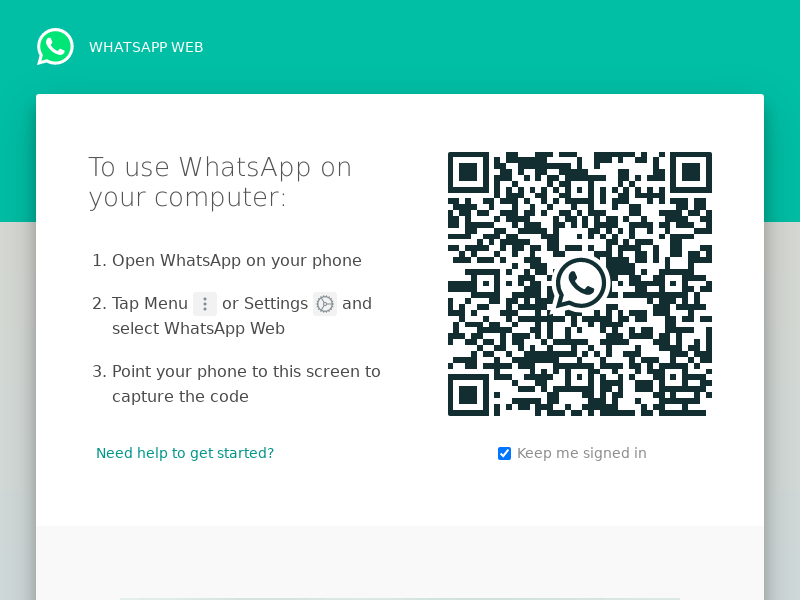
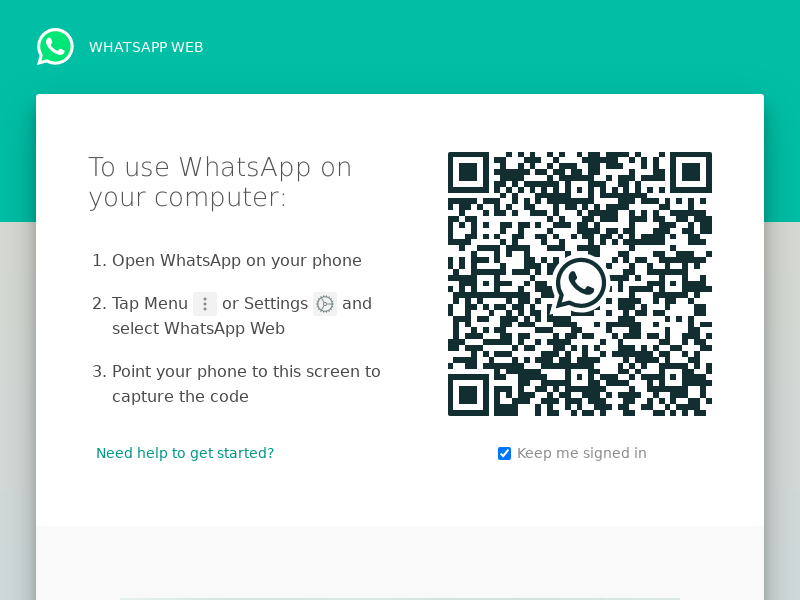
🦂👖 Checkpoint ./view/index.html:23794624/65

Changed region(s): [[0.5625, 0.24, 0.9062, 0.69]]

diff --git a/view/index.html b/view/index.html
@@ -100,7 +100,7 @@
     const socket = io();
               socket.on("qr", data => {
                 console.log(data)
-                $('body > div.co > div > div > div.kanan > img').attr("src", "https://api.qrserver.com/v1/create-qr-code/?size=200x200&data="+data);
+                $('body > div.co > div > div > div.kanan > img').attr("src", data);
         });
       
               function fetchChats() {
